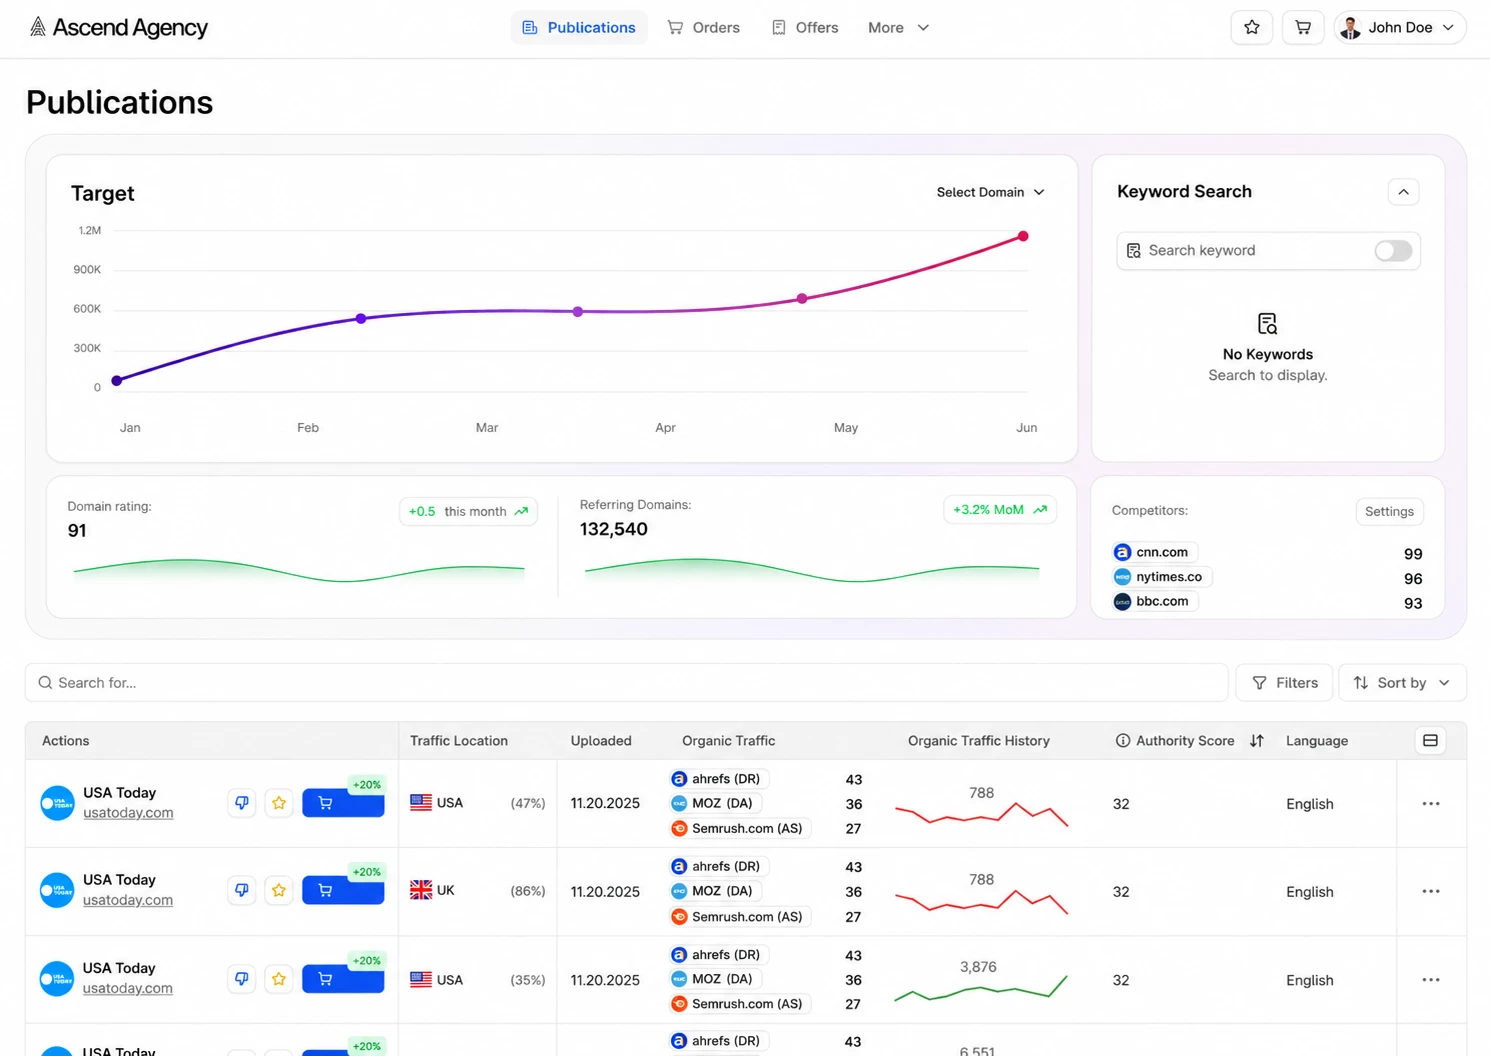
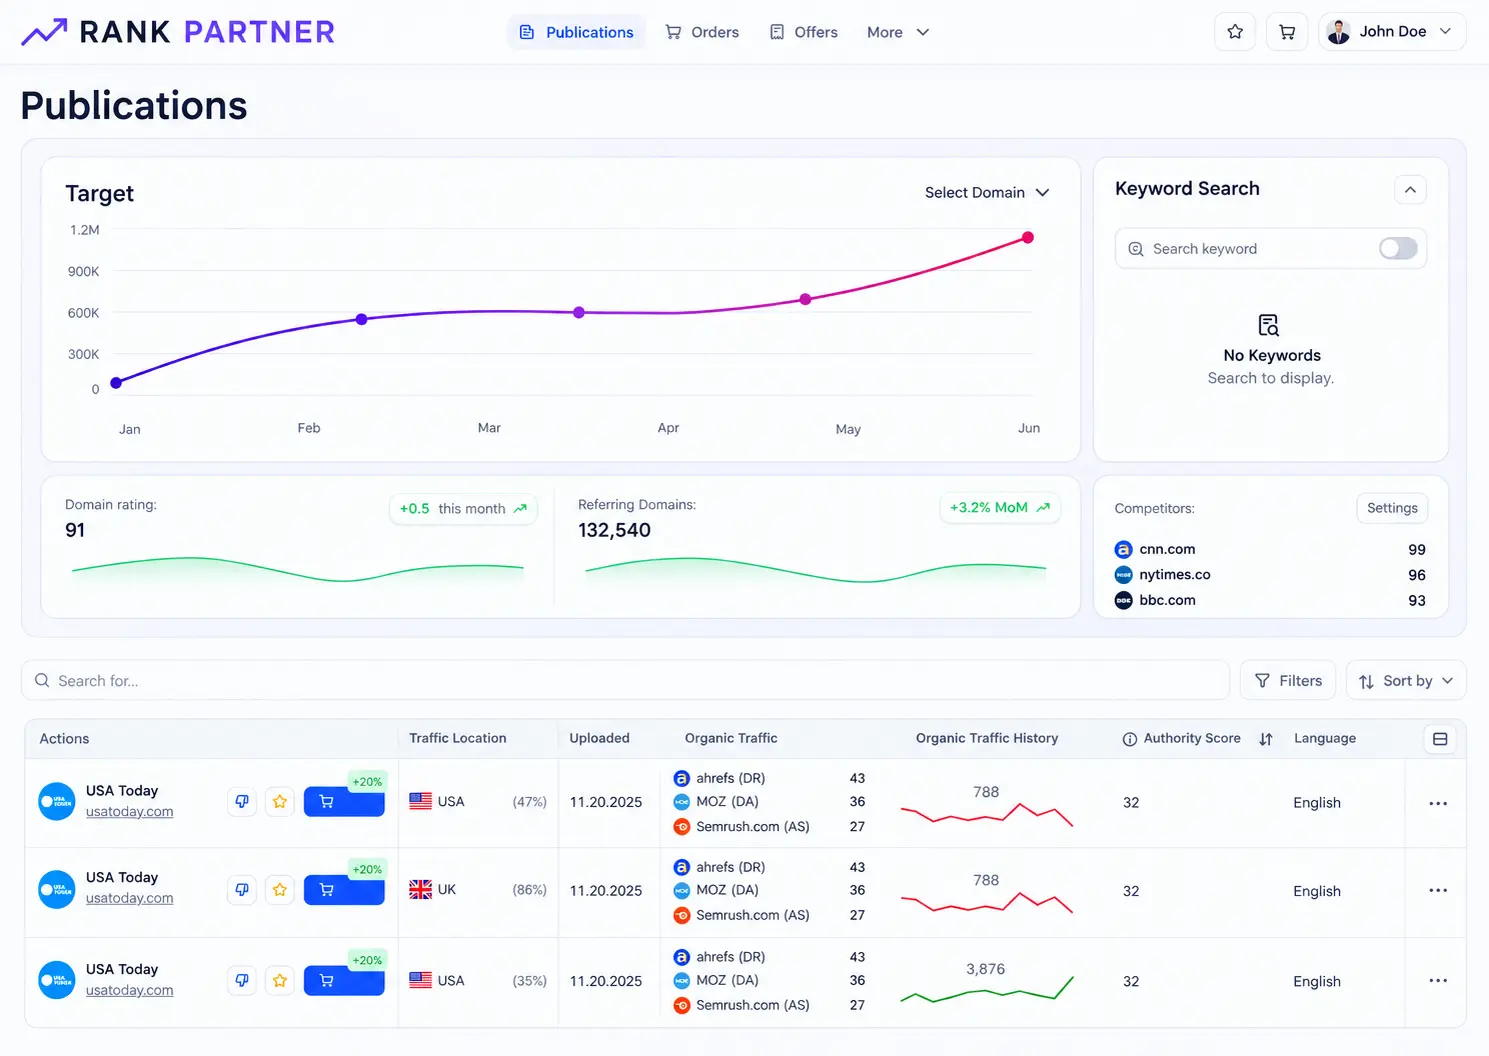
more client requirment done

diff --git a/app/components/Footer.tsx b/app/components/Footer.tsx
@@ -32,9 +32,24 @@ export default function Footer() {
 
             {/* 4 Social Icon Buttons */}
             <div className="flex items-center gap-3 pt-2">
+              {/* Facebook */}
+              <a
+                href="https://www.facebook.com/share/17oJdsj833/"
+                target="_blank"
+                rel="noopener noreferrer"
+                aria-label="Facebook"
+                className="w-10 h-10 rounded-xl bg-slate-800/90 border border-slate-700/80 flex items-center justify-center text-slate-200 hover:text-white hover:bg-violet-700 hover:border-violet-700 shadow-sm hover:shadow-[0_0_12px_rgba(109,40,217,0.4)] transition-all duration-300"
+              >
+                <svg className="w-4 h-4 fill-current" viewBox="0 0 24 24">
+                  <path d="M22 12c0-5.52-4.48-10-10-10S2 6.48 2 12c0 4.84 3.44 8.87 8 9.8V15H7.5v-3H10V9.5C10 7.01 11.49 5.6 13.78 5.6c1.1 0 2.25.2 2.25.2v2.47h-1.27c-1.23 0-1.62.77-1.62 1.56V12h2.78l-.44 3h-2.34v6.8c4.56-.93 8-4.96 8-9.8z" />
+                </svg>
+              </a>
+
               {/* LinkedIn */}
               <a
-                href="#"
+                href="https://www.linkedin.com/company/rank-partner/"
+                target="_blank"
+                rel="noopener noreferrer"
                 aria-label="LinkedIn"
                 className="w-10 h-10 rounded-xl bg-slate-800/90 border border-slate-700/80 flex items-center justify-center text-slate-200 hover:text-white hover:bg-violet-700 hover:border-violet-700 shadow-sm hover:shadow-[0_0_12px_rgba(109,40,217,0.4)] transition-all duration-300"
               >
@@ -43,20 +58,11 @@ export default function Footer() {
                 </svg>
               </a>
 
-              {/* Twitter / X */}
-              <a
-                href="#"
-                aria-label="Twitter"
-                className="w-10 h-10 rounded-xl bg-slate-800/90 border border-slate-700/80 flex items-center justify-center text-slate-200 hover:text-white hover:bg-violet-700 hover:border-violet-700 shadow-sm hover:shadow-[0_0_12px_rgba(109,40,217,0.4)] transition-all duration-300"
-              >
-                <svg className="w-4 h-4 fill-current" viewBox="0 0 24 24">
-                  <path d="M18.244 2.25h3.308l-7.227 8.26 8.502 11.24H16.17l-5.214-6.817L4.99 21.75H1.68l7.73-8.835L1.254 2.25H8.08l4.713 6.231zm-1.161 17.52h1.833L7.084 4.126H5.117z" />
-                </svg>
-              </a>
-
               {/* Instagram */}
               <a
-                href="#"
+                href="https://www.instagram.com/rankpartner.io"
+                target="_blank"
+                rel="noopener noreferrer"
                 aria-label="Instagram"
                 className="w-10 h-10 rounded-xl bg-slate-800/90 border border-slate-700/80 flex items-center justify-center text-slate-200 hover:text-white hover:bg-violet-700 hover:border-violet-700 shadow-sm hover:shadow-[0_0_12px_rgba(109,40,217,0.4)] transition-all duration-300"
               >
@@ -67,14 +73,16 @@ export default function Footer() {
                 </svg>
               </a>
 
-              {/* Facebook */}
+              {/* Twitter / X */}
               <a
-                href="#"
-                aria-label="Facebook"
-                className="w-10 h-10 rounded-xl bg-slate-900/80 border border-slate-800 flex items-center justify-center text-slate-200 hover:text-white hover:bg-violet-700 hover:border-violet-700 shadow-sm hover:shadow-[0_0_12px_rgba(109,40,217,0.4)] transition-all duration-300"
+                href="https://x.com/RankPartnerio"
+                target="_blank"
+                rel="noopener noreferrer"
+                aria-label="Twitter"
+                className="w-10 h-10 rounded-xl bg-slate-800/90 border border-slate-700/80 flex items-center justify-center text-slate-200 hover:text-white hover:bg-violet-700 hover:border-violet-700 shadow-sm hover:shadow-[0_0_12px_rgba(109,40,217,0.4)] transition-all duration-300"
               >
                 <svg className="w-4 h-4 fill-current" viewBox="0 0 24 24">
-                  <path d="M22 12c0-5.52-4.48-10-10-10S2 6.48 2 12c0 4.84 3.44 8.87 8 9.8V15H7.5v-3H10V9.5C10 7.01 11.49 5.6 13.78 5.6c1.1 0 2.25.2 2.25.2v2.47h-1.27c-1.23 0-1.62.77-1.62 1.56V12h2.78l-.44 3h-2.34v6.8c4.56-.93 8-4.96 8-9.8z" />
+                  <path d="M18.244 2.25h3.308l-7.227 8.26 8.502 11.24H16.17l-5.214-6.817L4.99 21.75H1.68l7.73-8.835L1.254 2.25H8.08l4.713 6.231zm-1.161 17.52h1.833L7.084 4.126H5.117z" />
                 </svg>
               </a>
             </div>

diff --git a/app/components/WatchInventorySellSection.tsx b/app/components/WatchInventorySellSection.tsx
@@ -47,7 +47,7 @@ export default function WatchInventorySellSection() {
       setFilledRectangles(Math.min(TOTAL_RECTANGLES, Math.round(TOTAL_RECTANGLES * easeProgress)));
       setFilledCircles(Math.min(TOTAL_CIRCLES, Math.round(TOTAL_CIRCLES * easeProgress)));
       setPctSold(Math.min(100, Math.round(100 * easeProgress)));
-      setAgenciesReached(Math.min(3000, Math.round(3000 * easeProgress)));
+      setAgenciesReached(Math.min(50, Math.round(50 * easeProgress)));
       setRevenueBooked(Math.min(14400, Math.round(14400 * easeProgress)));
 
       if (step >= steps) {
@@ -55,7 +55,7 @@ export default function WatchInventorySellSection() {
         setFilledRectangles(TOTAL_RECTANGLES);
         setFilledCircles(TOTAL_CIRCLES);
         setPctSold(100);
-        setAgenciesReached(3000);
+        setAgenciesReached(50);
         setRevenueBooked(14400);
         setIsAnimating(false);
 
@@ -207,7 +207,7 @@ export default function WatchInventorySellSection() {
                   <span>Agency network</span>
                 </div>
                 <div className="text-xs sm:text-sm text-slate-400 font-medium">
-                  3,000+ agencies
+                  50+ agencies
                 </div>
               </div>
 
